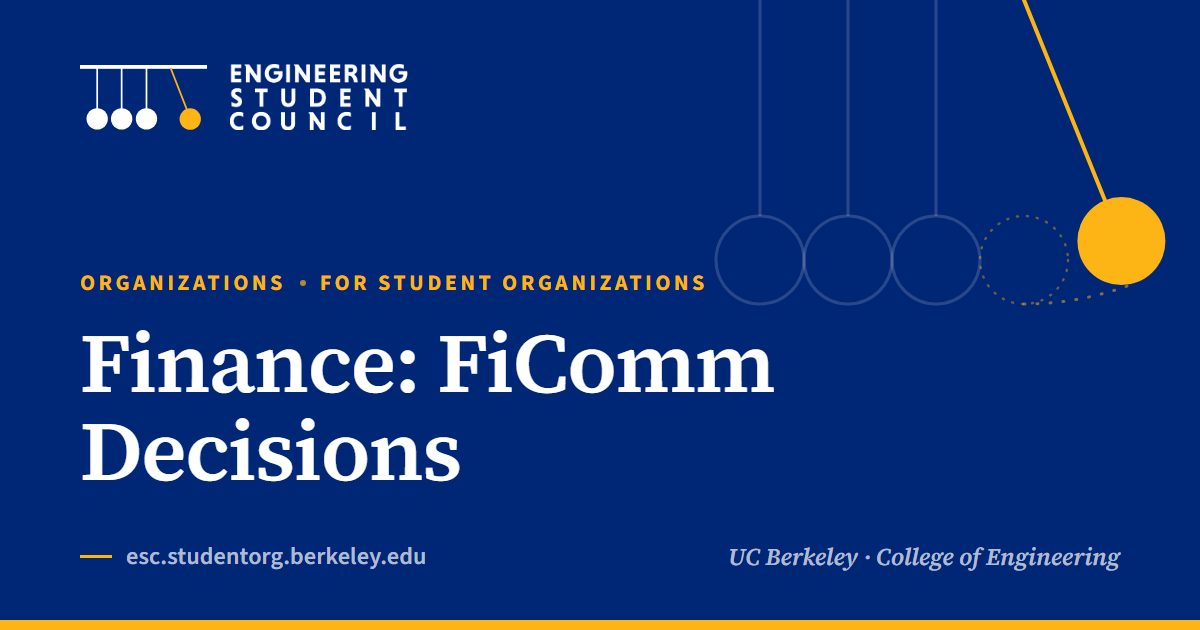
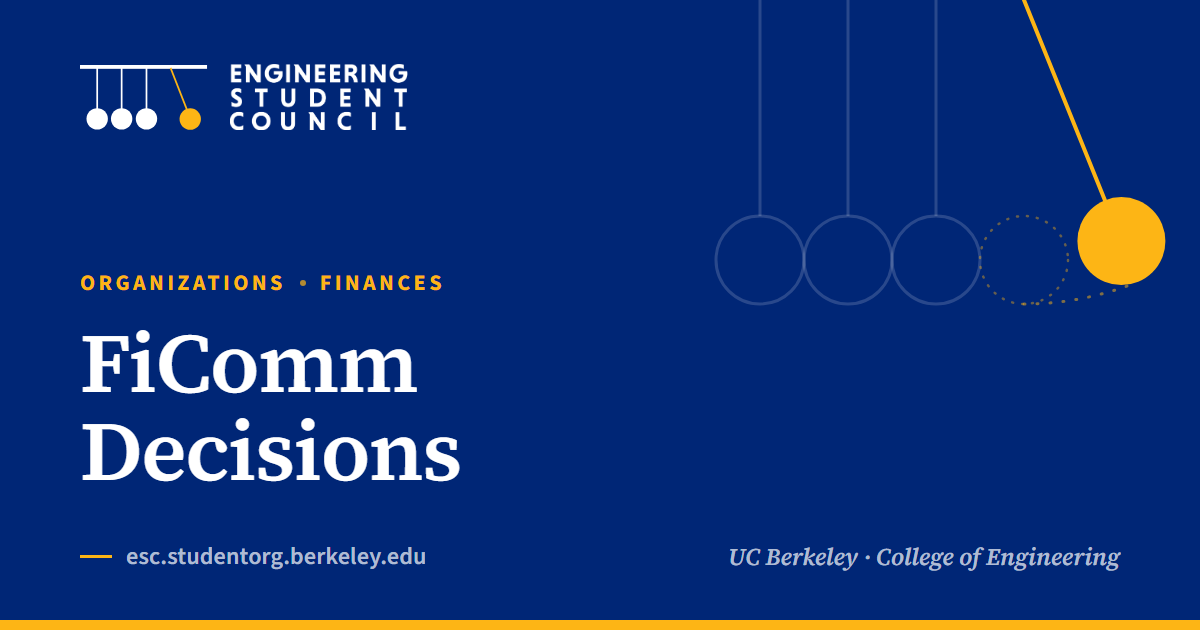
Restore ficomm.html search entry and regenerate its link preview

Changed region(s): [[0.1233, 0.5127, 0.6475, 0.6333], [0.2775, 0.4222, 0.5858, 0.4825]]

diff --git a/ficomm.html b/ficomm.html
@@ -12,19 +12,19 @@
 		<!-- Generated by `npm run build:og`; edit data/search/pages.json, not this block. -->
 		<meta property="og:type" content="website" />
 		<meta property="og:site_name" content="Engineering Student Council at UC Berkeley" />
-		<meta property="og:title" content="Finance: FiComm Decisions" />
-		<meta property="og:description" content="The Engineering Student Council funds engineering student orgs, runs Blue &amp; Gold certification, and hosts Engineers' Week." />
+		<meta property="og:title" content="FiComm Decisions" />
+		<meta property="og:description" content="Funding decisions from ESC's Finance Committee (FiComm) for engineering student organizations." />
 		<meta property="og:url" content="https://esc.studentorg.berkeley.edu/ficomm.html" />
 		<meta property="og:image" content="https://esc.studentorg.berkeley.edu/images/og/ficomm.png" />
 		<meta property="og:image:type" content="image/png" />
 		<meta property="og:image:width" content="1200" />
 		<meta property="og:image:height" content="630" />
-		<meta property="og:image:alt" content="Finance: FiComm Decisions · Engineering Student Council at UC Berkeley" />
+		<meta property="og:image:alt" content="FiComm Decisions · Engineering Student Council at UC Berkeley" />
 		<meta name="twitter:card" content="summary_large_image" />
-		<meta name="twitter:title" content="Finance: FiComm Decisions" />
-		<meta name="twitter:description" content="The Engineering Student Council funds engineering student orgs, runs Blue &amp; Gold certification, and hosts Engineers' Week." />
+		<meta name="twitter:title" content="FiComm Decisions" />
+		<meta name="twitter:description" content="Funding decisions from ESC's Finance Committee (FiComm) for engineering student organizations." />
 		<meta name="twitter:image" content="https://esc.studentorg.berkeley.edu/images/og/ficomm.png" />
-		<meta name="twitter:image:alt" content="Finance: FiComm Decisions · Engineering Student Council at UC Berkeley" />
+		<meta name="twitter:image:alt" content="FiComm Decisions · Engineering Student Council at UC Berkeley" />
 		<meta name="theme-color" content="#002676" />
 		<!-- link-preview:end -->
 		<link rel="stylesheet" href="assets/css/main.css" />
